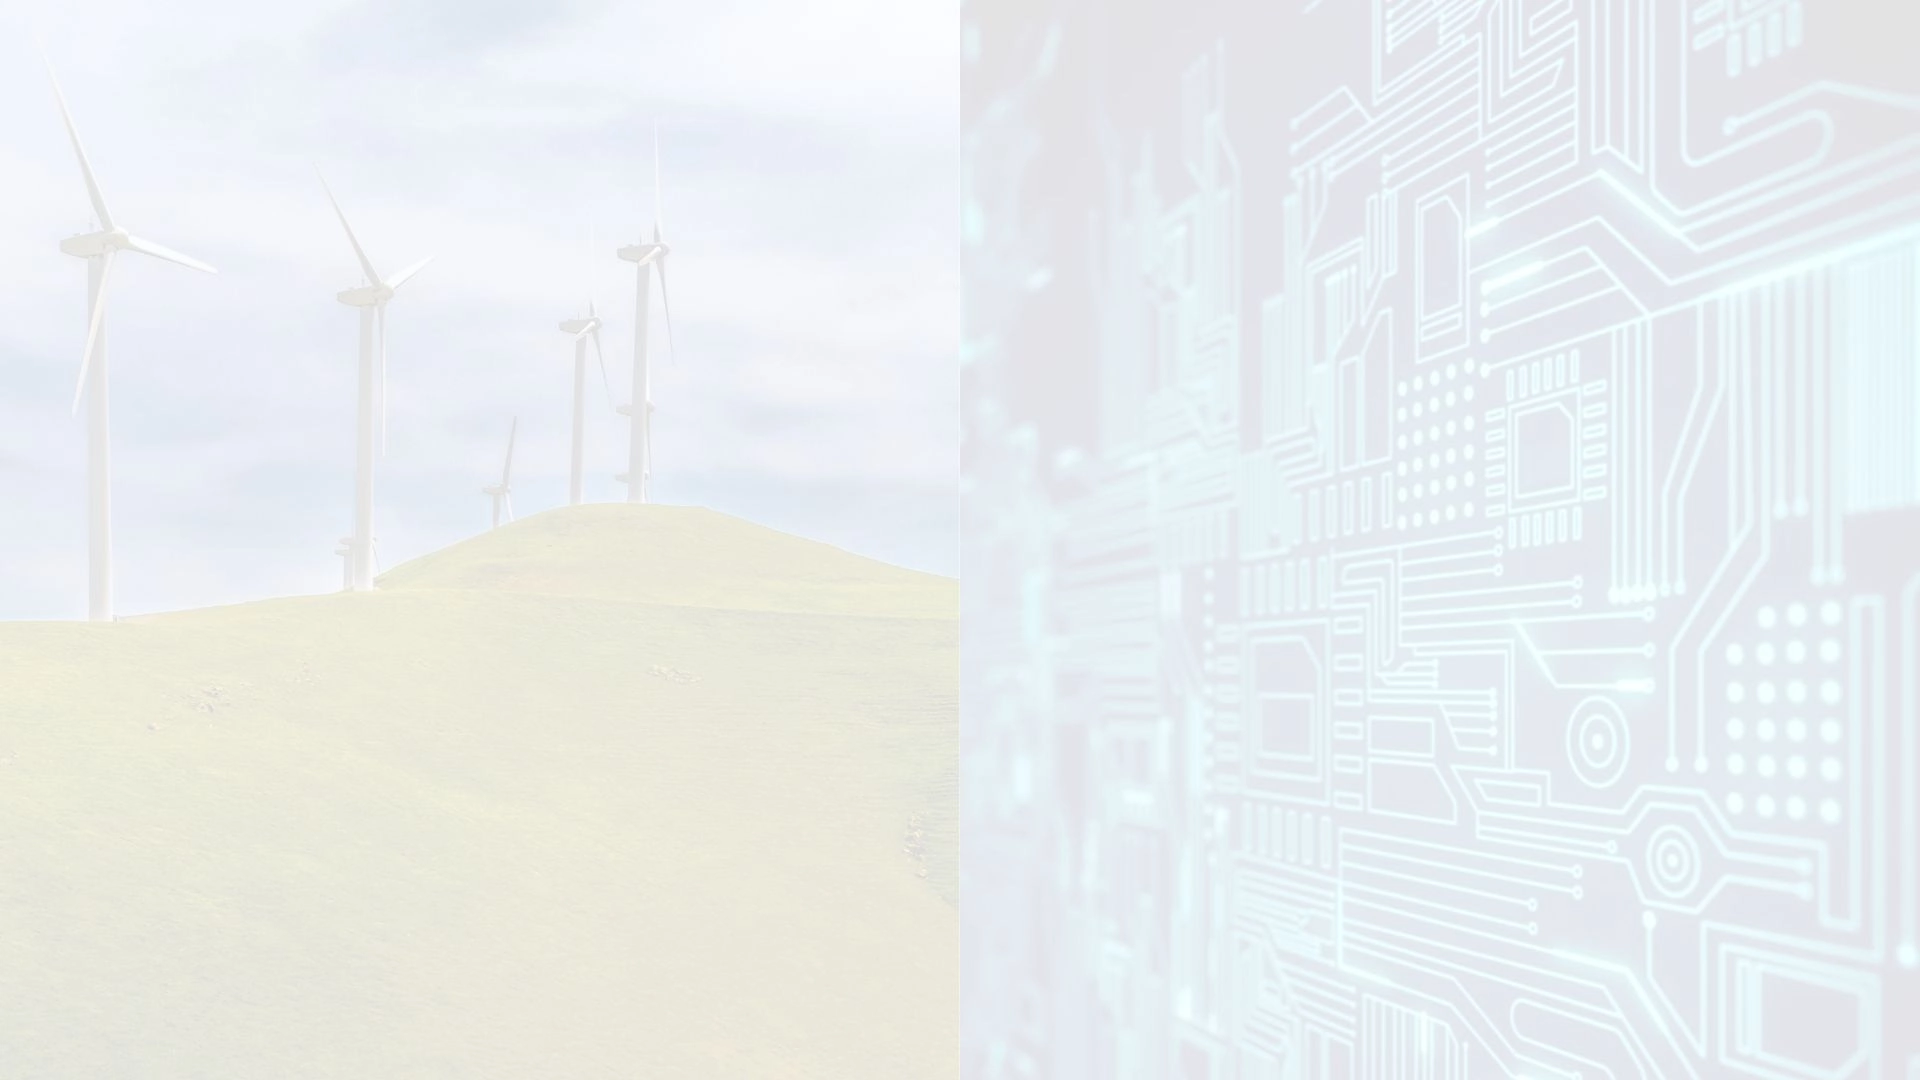
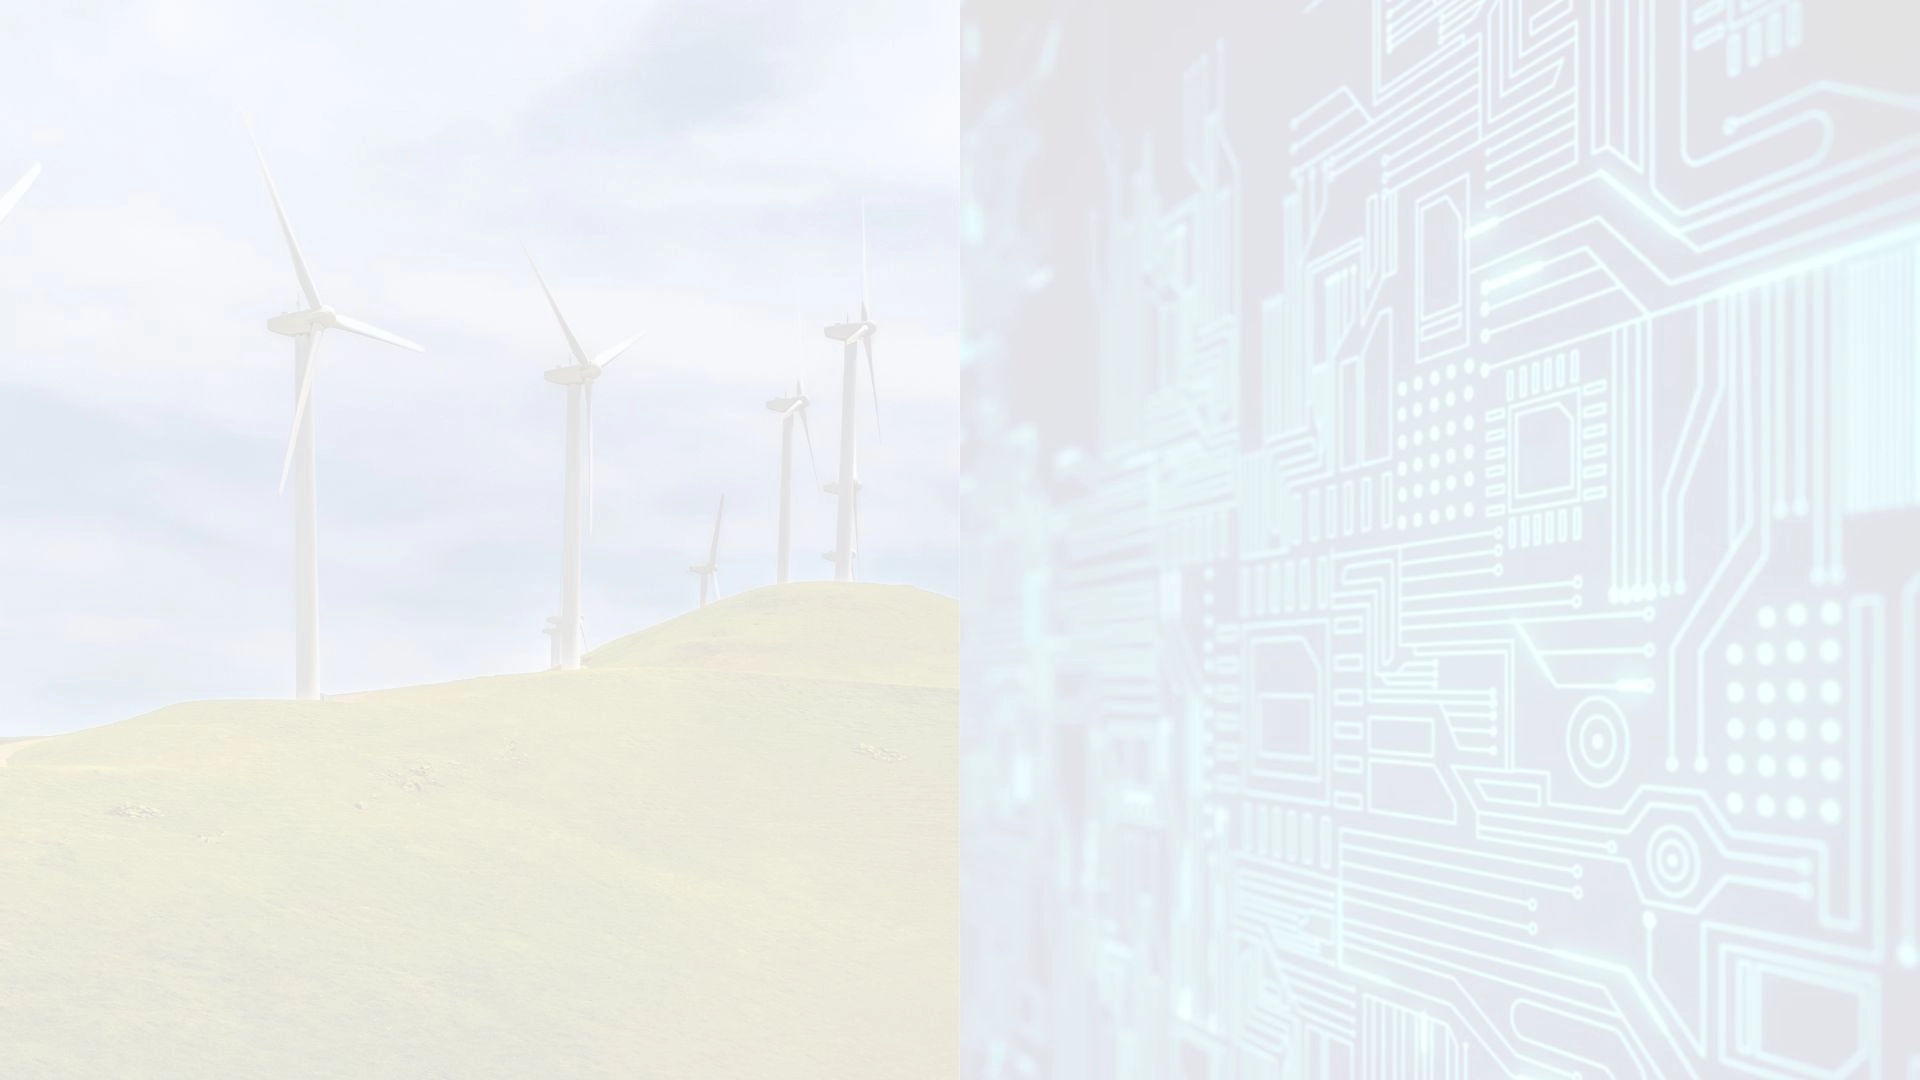
sigo trabajando en la versión móvil

Changed region(s): [[0.0, 0.4583, 0.5, 0.7028], [0.1875, 0.2444, 0.2188, 0.3056], [0.0312, 0.2139, 0.0625, 0.2444]]

diff --git a/style.css b/style.css
@@ -128,7 +128,7 @@ body {
 /* ========== HERO SECTION ========== */
 .hero {
     background: white;
-    background-image: url('img/LandingPageWebDACT\ 1920x1080px.webp'); /* Reemplaza con el nombre de tu imagen */
+    background-image: url('img/landing\ Page\ desktop.webp'); /* Reemplaza con el nombre de tu imagen */
     background-size: cover;
     background-position: center;
     background-repeat: no-repeat;
